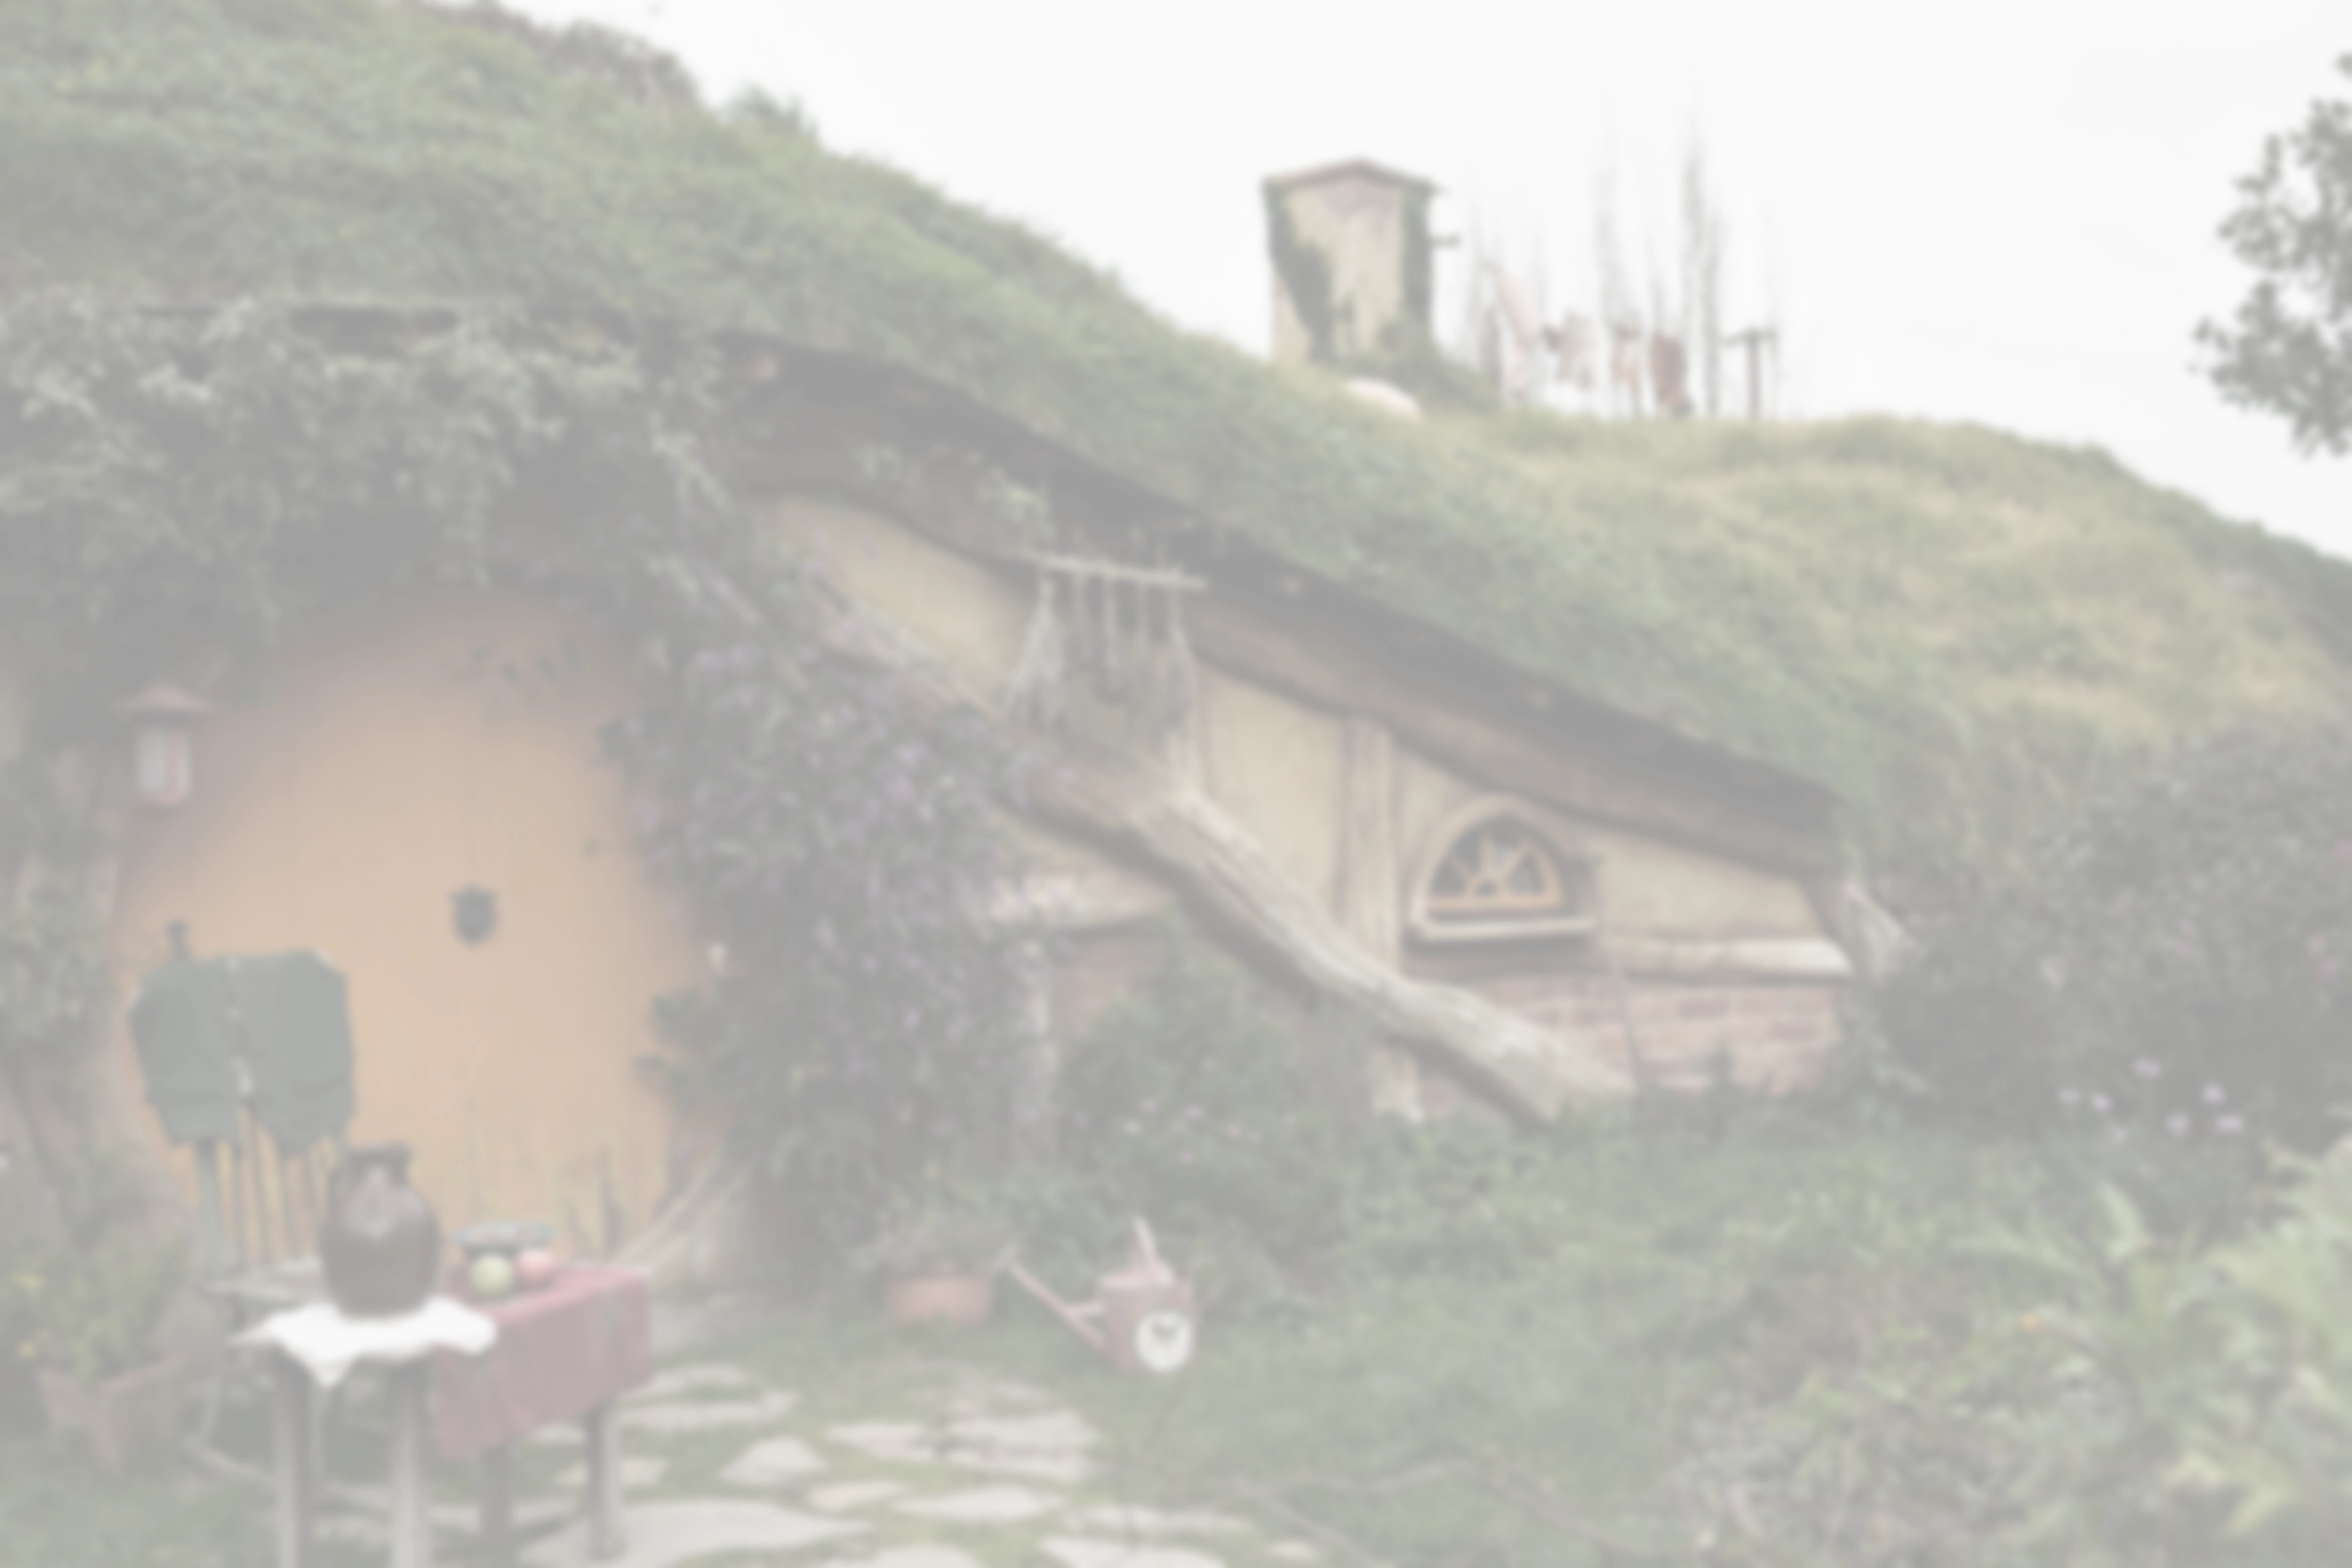
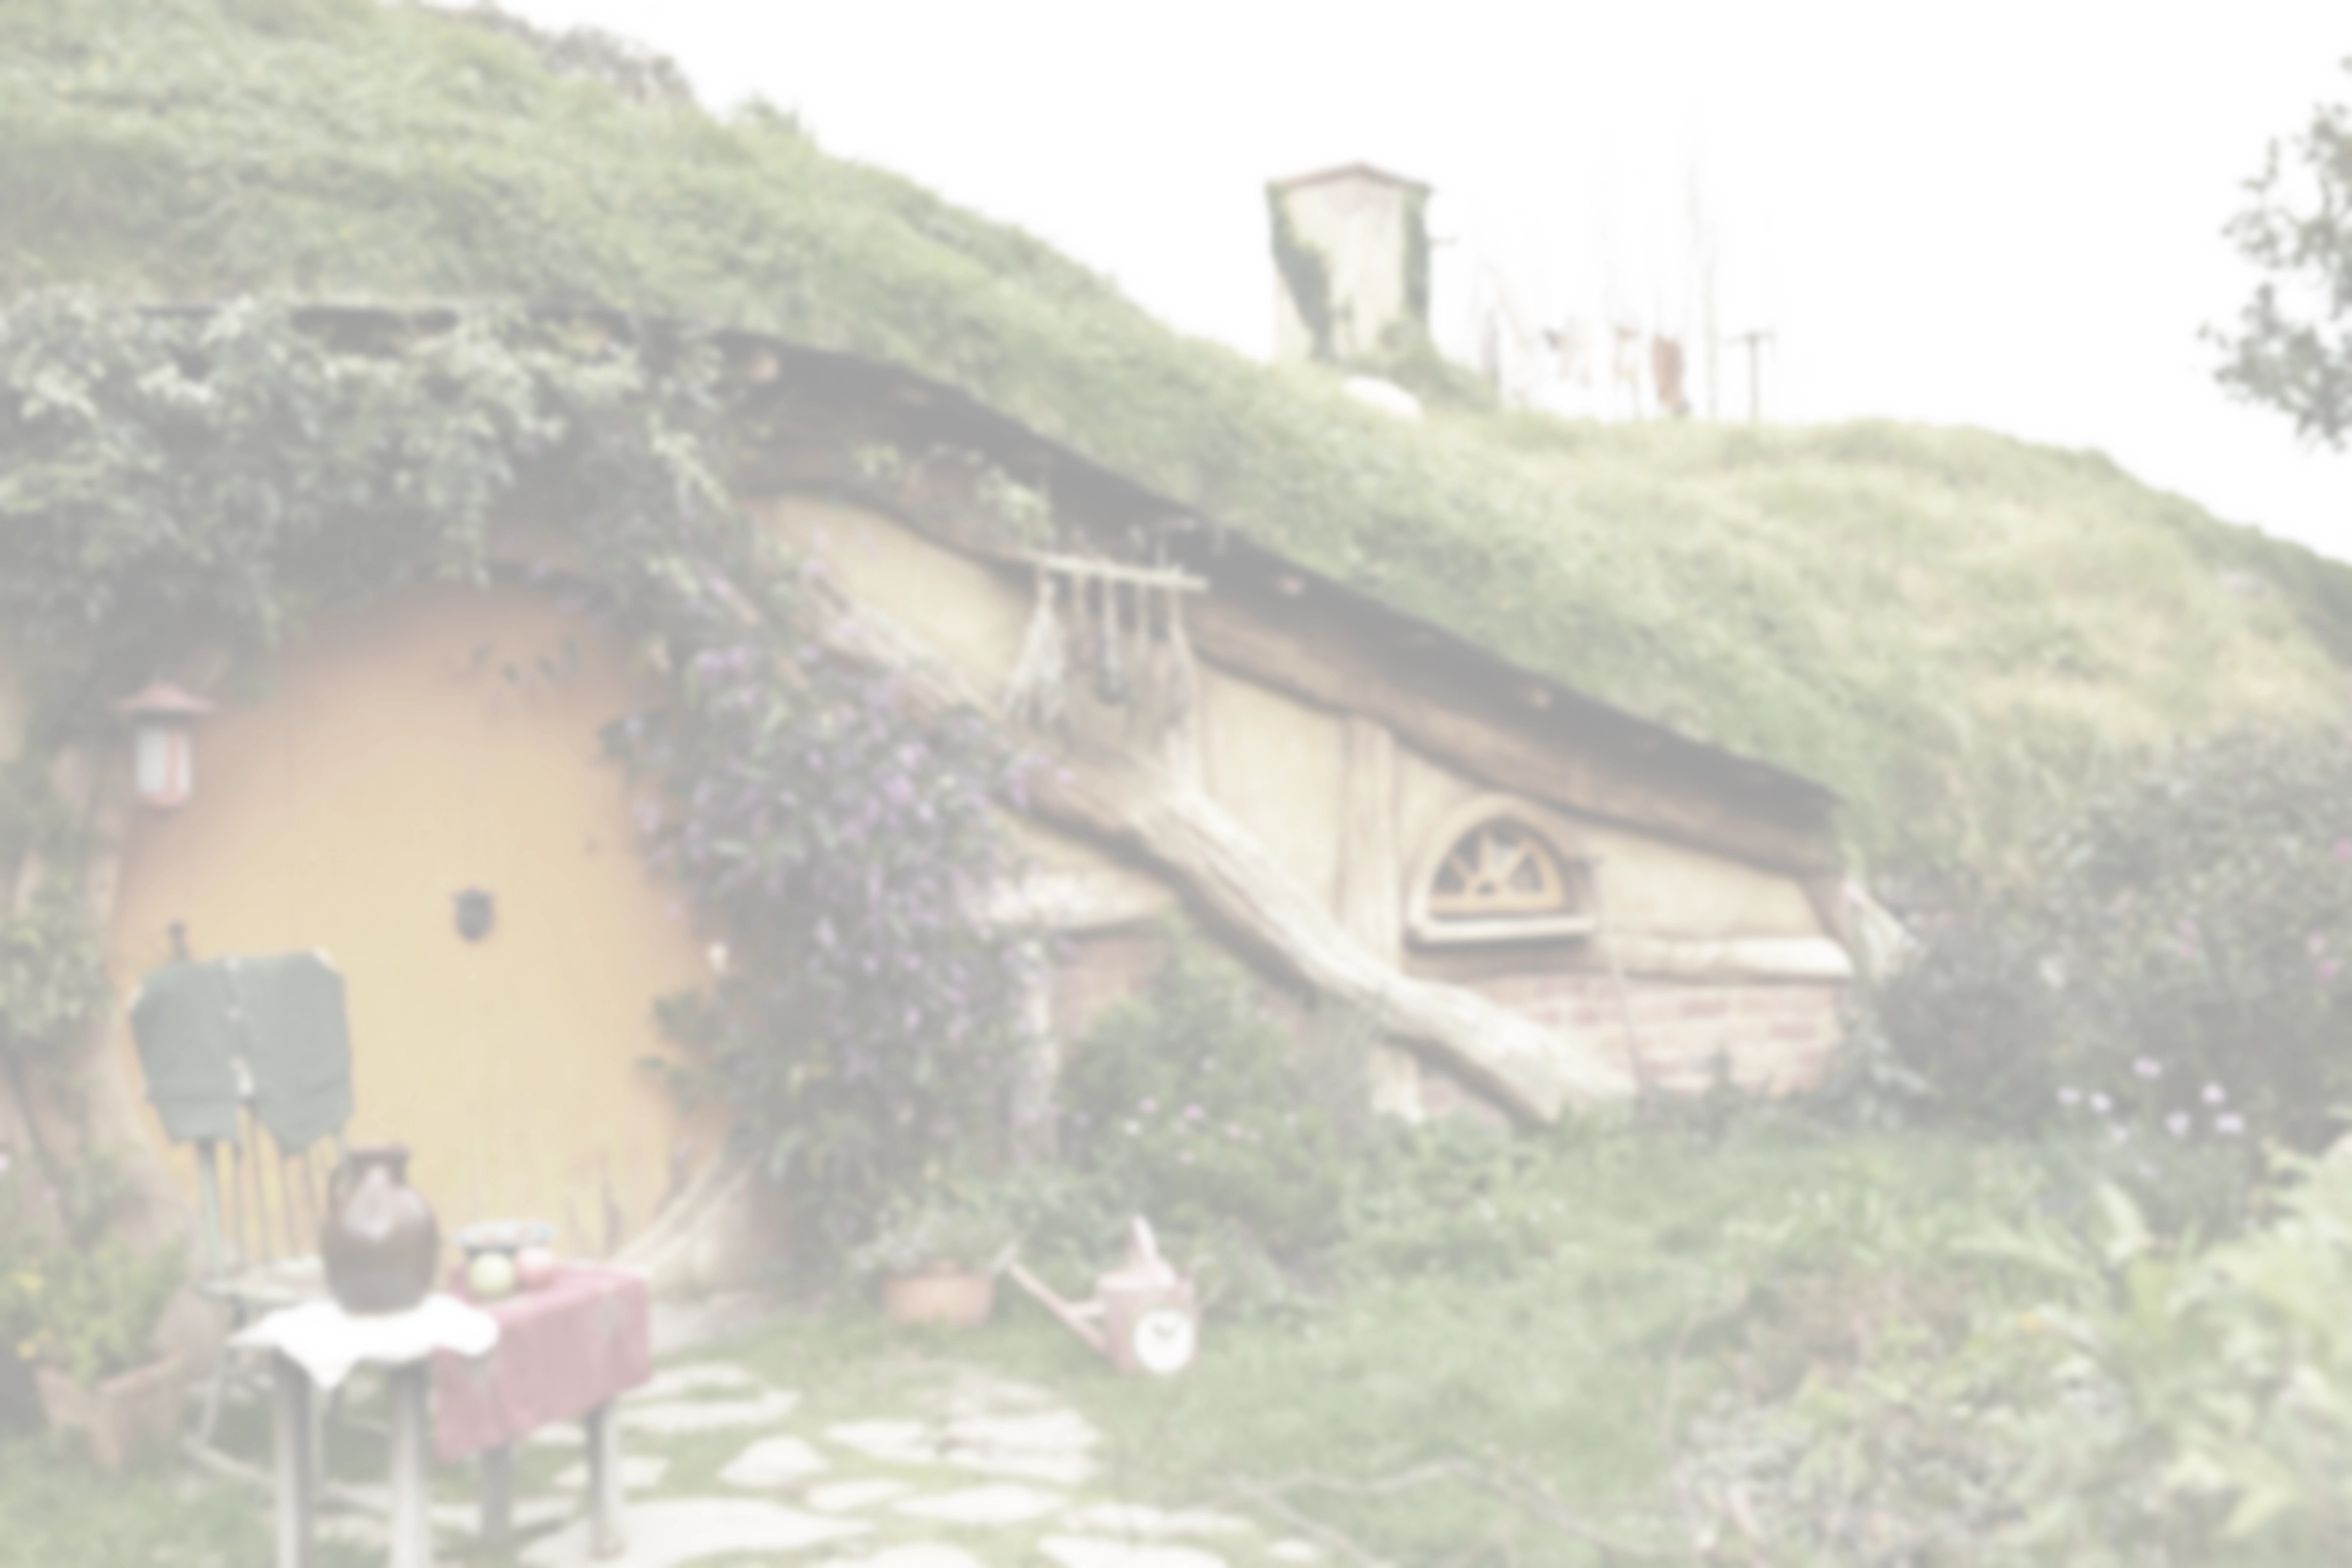
Fixed hero image

diff --git a/_scss/sections/_hero.scss b/_scss/sections/_hero.scss
@@ -21,14 +21,13 @@
     padding-left: calc((100% - var(--container)) / 2);
     height: 100%;
     width: 100%;
-    background-color: rgba(255,255,255,0.7);
-    backdrop-filter: blur(4px) grayscale(50%) brightness(160%);
+    background-color: rgba(255,255,255,0.15);
   }
 
   &__stuff {
     position: relative;
     max-width: calc(920px + ((100% - var(--container)) / 2));
-    background-color: rgba(245,245,245,0.7);
+    background-color: rgba(245,245,245,0.8);
     height: 100%;
     display: flex;
     flex-direction: column;
@@ -43,7 +42,7 @@
         left: -10rem;
         width: 10rem;
         height: 100%;
-        background: linear-gradient(-90deg, rgba(245,245,245,0.7) 0%, rgba(245,245,245,0) 100%);
+        background: linear-gradient(-90deg, rgba(245,245,245,0.8) 0%, rgba(245,245,245,0) 100%);
     }
   }
 
